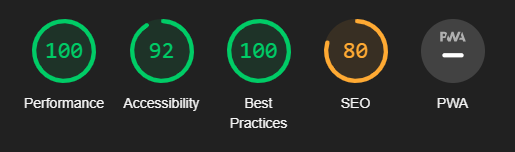
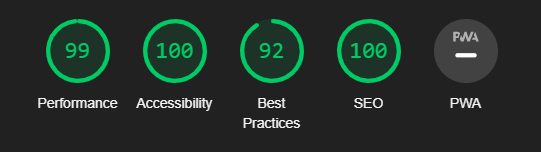
Improve lighthouse scores by following suggestions

diff --git a/index.html b/index.html
@@ -3,8 +3,9 @@
 
 <head>
     <meta charset="UTF-8">
+    <meta name="description" content="Casino style blackjack game, a 3-minute challenge">
     <meta http-equiv="X-UA-Compatible" content="IE=edge">
-    <meta name="viewport" content="width=device-width, initial-scale=1.0, user-scalable = no">
+    <meta name="viewport" content="width=device-width, initial-scale=1.0">
 
     <script src="https://kit.fontawesome.com/a616b3b688.js" crossorigin="anonymous"></script>
 
@@ -143,9 +144,8 @@
                 <p>
                     <span id="name-span"></span> Thank you for playing the "Blackjack 3-Minute Challenge"!
                 </p>
-                <p>Below are a summary of the rules to play the game, although, if you wish, feel free to check out the
-                    full ruleset <a href="https://bicyclecards.com/how-to-play/blackjack/"
-                        target="_blank"><strong>here</strong></a>!</p>
+                <p>Below is a summary of the rules to play the game, although, if you wish, you can read the <a
+                        href="https://bicyclecards.com/how-to-play/blackjack/" target="_blank"><strong>full ruleset</strong></a>!</p>
                 <br>
                 <p>
                     <strong>Key Differences To Fully A Fledged Casino Blackjack:</strong>
@@ -194,10 +194,10 @@
                 </p>
                 <ol>
                     <li>
-                        Place your bets! (minimum $50 is deducted per round at a minimum).
+                        Place your bets! (minimum of $50 is deducted per round at a minimum).
                     </li>
                     <li>
-                        Dealer will deal two cards to you and two to themselves (one of the dealer's cards is dealt
+                        The dealer will deal two cards to you and two to themselves (one of the dealer's cards is dealt
                         face-down)!
                     </li>
                     <li>
@@ -224,7 +224,7 @@
                         In every other case; the higher score wins!
                     </li>
                     <li>
-                        In a case of tie; nobody wins (bets are not lost).
+                        In the case of a tie; nobody wins (bets are not lost).
                     </li>
                 </ul>
                 <p>
@@ -240,14 +240,14 @@
                             </li>
                             <li>
                                 When splitting you must be able to produce an equivalent bet amount to your original
-                                bet; or you won't be allowed to split.
+                                bet, or you won't be allowed to split.
                             </li>
                             <li>
-                                Splitting puts one of the identical cards out of play, for now, and let's you play them
+                                Splitting puts one of the identical cards out of play, for now, and lets you play them
                                 separately in consecutive rounds.
                             </li>
                             <li>
-                                Top tip: try splitting high value cards like Jacks, Queens, Kings and Aces!
+                                Top tip: try splitting high-value cards like Jacks, Queens, Kings, and Aces!
                             </li>
                         </ul>
                     </li>

diff --git a/assets/css/style.css b/assets/css/style.css
@@ -38,6 +38,11 @@ body span {
 h1 {
     font-size: 2em;
     font-family: 'Righteous', cursive;
+    letter-spacing: 2px;
+}
+
+#game-rules-span {
+    font-size: large;
 }
 
 h2 {
